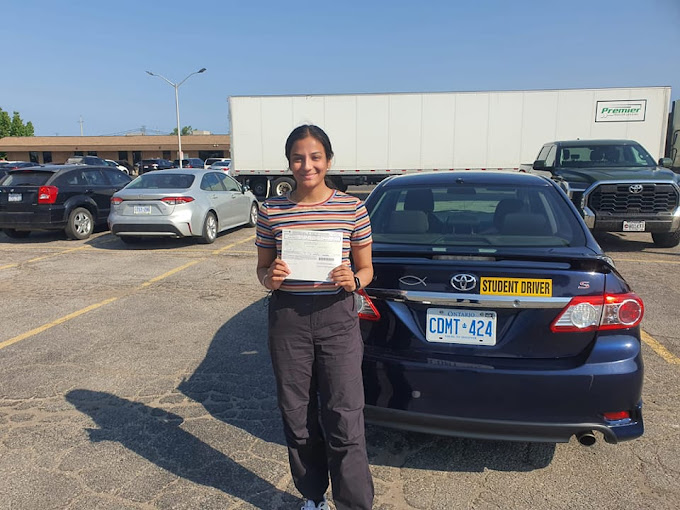
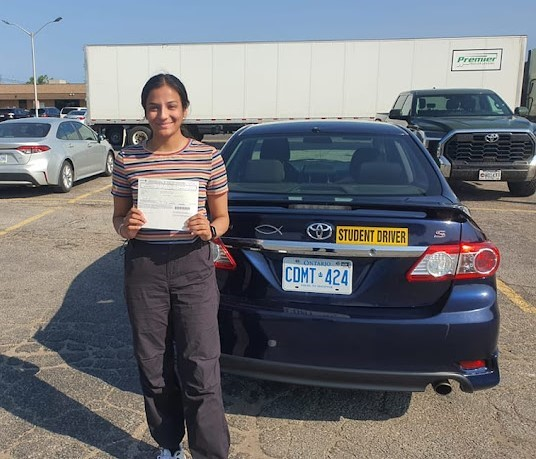
fixed positioning

diff --git a/index.html b/index.html
@@ -505,7 +505,7 @@
                 </div>
                 <div class="col-lg-6 wow fadeInUp" data-wow-delay="0.5s">
                     <div class="position-relative overflow-hidden pe-5 pt-5 h-100" style="min-height: 400px;">
-                        <img class="position-absolute w-100 h-100" src="img/drivng lessons lasalle.jpg" alt="Teen girl in car taking traing lessons for her G2 test in Windsor" style="object-fit: cover; object-position: 80% 50%;" loading="lazy">
+                        <img class="position-absolute w-100 h-100" src="img/drivng lessons lasalle.jpg" alt="Teen girl in car taking traing lessons for her G2 test in Windsor" style="object-fit: cover; object-position: 50% 50%;" loading="lazy">
                         <img class="position-absolute top-0 end-0 bg-white ps-3 pb-3" src="img/finished-driving-lessons-windsor-and-passed-g2-exam.jpg" alt="Lasalle Driving Lessons to Teenager" style="width: 200px; height: 200px; object-fit: cover; object-position: 40% 85%;" loading="lazy"> <!-- The 40% value for the horizontal position remains the same, moving the image slightly to the left.
 The 85% value for the vertical position moves the image slightly down from the center (which would be 50%). -->
                     </div>
